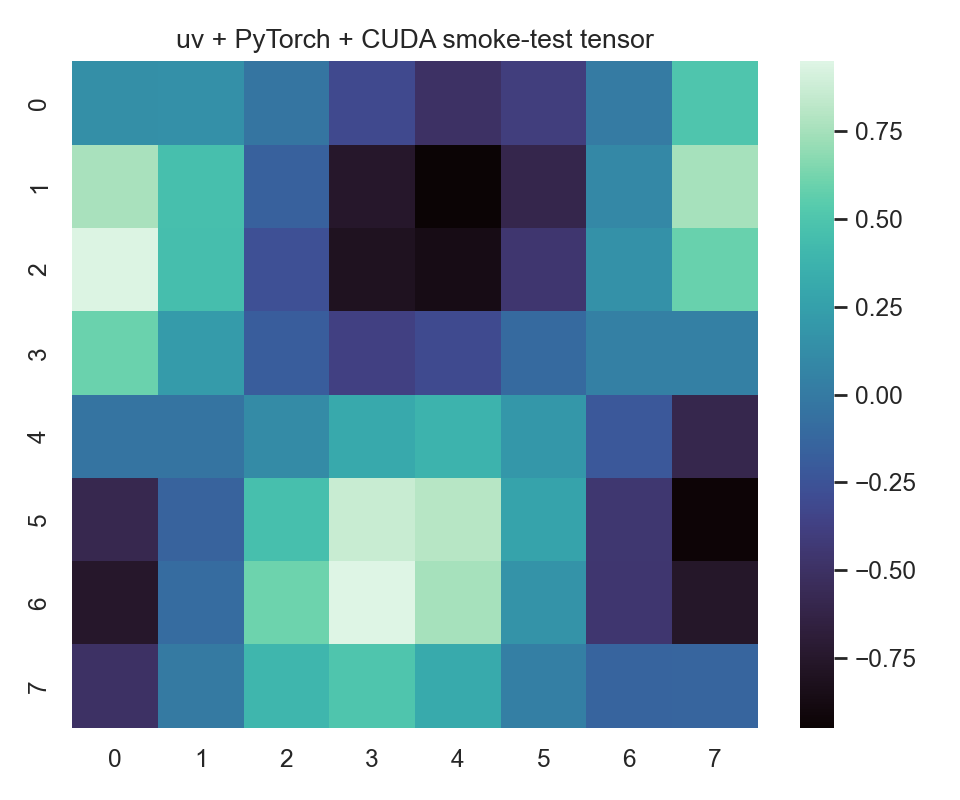
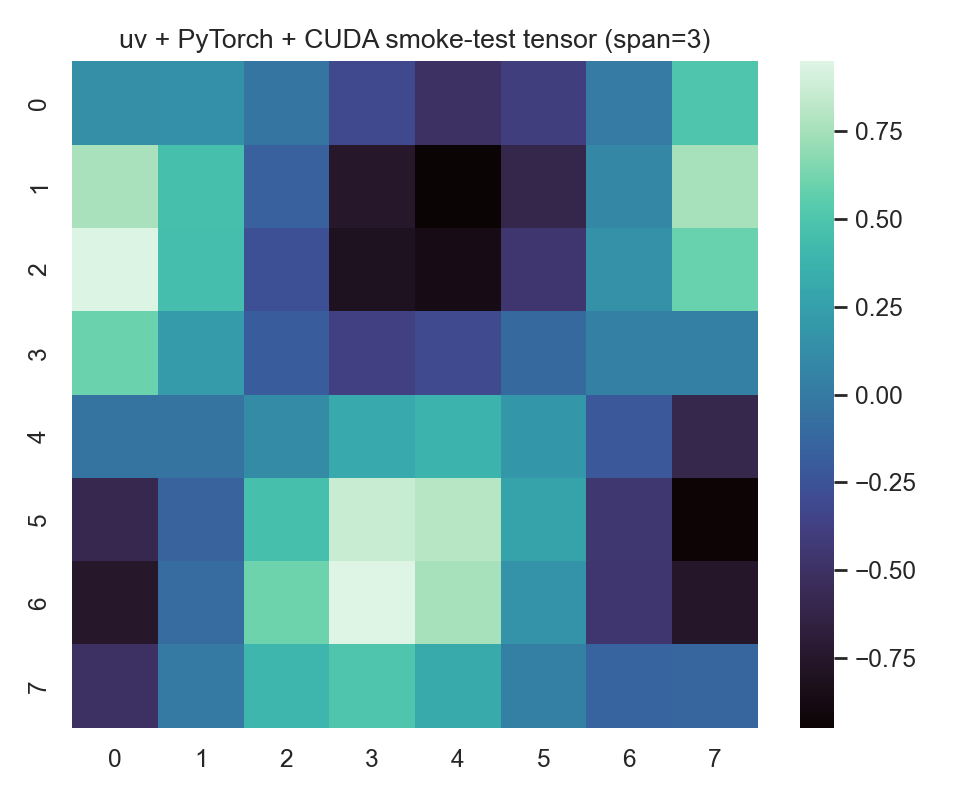
Finish CUDA smoke prep evidence

Changed region(s): [[0.125, 0.0312, 0.75, 0.0625]]

diff --git a/src/visual_genai_lab/cuda_smoke.py b/src/visual_genai_lab/cuda_smoke.py
@@ -2,6 +2,7 @@
 
 from __future__ import annotations
 
+import argparse
 import platform
 from pathlib import Path
 
@@ -14,24 +15,42 @@ import seaborn as sns
 import torch
 
 
+def parse_args() -> argparse.Namespace:
+    """Parse command-line options for the smoke-test artifact."""
+    parser = argparse.ArgumentParser(description="Run a tiny PyTorch CUDA smoke test and save a heatmap artifact.")
+    parser.add_argument(
+        "--span",
+        type=float,
+        default=3.0,
+        help="Positive linspace span used for the demo tensor, from -span to +span.",
+    )
+    parser.add_argument(
+        "--output",
+        type=Path,
+        default=Path("outputs/prep/cuda_smoke_heatmap.png"),
+        help="Path where the heatmap PNG should be saved.",
+    )
+    return parser.parse_args()
+
+
 def get_device() -> torch.device:
     """Return CUDA when available, otherwise CPU."""
     return torch.device("cuda" if torch.cuda.is_available() else "cpu")
 
 
-def build_demo_tensor(device: torch.device) -> torch.Tensor:
+def build_demo_tensor(device: torch.device, span: float = 3.0) -> torch.Tensor:
     """Create a tiny tensor on the selected device and do simple GPU-friendly math."""
-    values = torch.linspace(-3.0, 3.0, steps=64, device=device).reshape(8, 8)
+    values = torch.linspace(-span, span, steps=64, device=device).reshape(8, 8)
     return torch.sin(values) * torch.cos(values.T)
 
 
-def save_heatmap(tensor: torch.Tensor, output_path: Path) -> None:
+def save_heatmap(tensor: torch.Tensor, output_path: Path, title: str = "uv + PyTorch + CUDA smoke-test tensor") -> None:
     """Save a heatmap artifact for human inspection."""
     output_path.parent.mkdir(parents=True, exist_ok=True)
     sns.set_theme(style="white")
     figure, axis = plt.subplots(figsize=(6, 5))
     sns.heatmap(tensor.detach().cpu().numpy(), cmap="mako", ax=axis, cbar=True)
-    axis.set_title("uv + PyTorch + CUDA smoke-test tensor")
+    axis.set_title(title)
     figure.tight_layout()
     figure.savefig(output_path, dpi=160)
     plt.close(figure)
@@ -39,10 +58,10 @@ def save_heatmap(tensor: torch.Tensor, output_path: Path) -> None:
 
 def main() -> None:
     """Run the smoke test and save a visual artifact."""
+    args = parse_args()
     device = get_device()
-    tensor = build_demo_tensor(device)
-    output_path = Path("outputs/prep/cuda_smoke_heatmap.png")
-    save_heatmap(tensor, output_path)
+    tensor = build_demo_tensor(device, span=args.span)
+    save_heatmap(tensor, args.output, title=f"uv + PyTorch + CUDA smoke-test tensor (span={args.span:g})")
 
     print(f"Python: {platform.python_version()}")
     print(f"PyTorch: {torch.__version__}")
@@ -51,7 +70,8 @@ def main() -> None:
     if torch.cuda.is_available():
         print(f"GPU: {torch.cuda.get_device_name(0)}")
         print(f"CUDA runtime: {torch.version.cuda}")
-    print(f"Artifact: {output_path.as_posix()}")
+    print(f"Tensor span: {args.span:g}")
+    print(f"Artifact: {args.output.as_posix()}")
 
 
 if __name__ == "__main__":

diff --git a/README.md b/README.md
@@ -56,7 +56,19 @@ Validated locally on 2026-05-31:
 - CUDA available: `True`
 - GPU: `NVIDIA GeForce RTX 4070 SUPER`
 - CUDA runtime: `12.8`
-- Artifact: `outputs/prep/cuda_smoke_heatmap.png`
+- Baseline artifact: `outputs/prep/cuda_smoke_heatmap.png`
+- Parameter-tweak artifact: `outputs/prep/cuda_smoke_heatmap_span6.png`
+
+Human review note for issue #1:
+
+- I inspected both heatmaps and confirmed they render as complete 8×8 seaborn PNG artifacts with color bars and clear titles.
+- I reran the smoke test with a parameter tweak, increasing the demo tensor span from `3` to `6`:
+
+  ```powershell
+  uv run python -m visual_genai_lab.cuda_smoke --span 6 --output outputs/prep/cuda_smoke_heatmap_span6.png
+  ```
+
+- Observation: increasing `--span` changes the sinusoidal pattern substantially while preserving the same tensor shape and CUDA execution path, which confirms the artifact is generated from live PyTorch tensor math rather than a static image.
 
 ## Project structure
 
